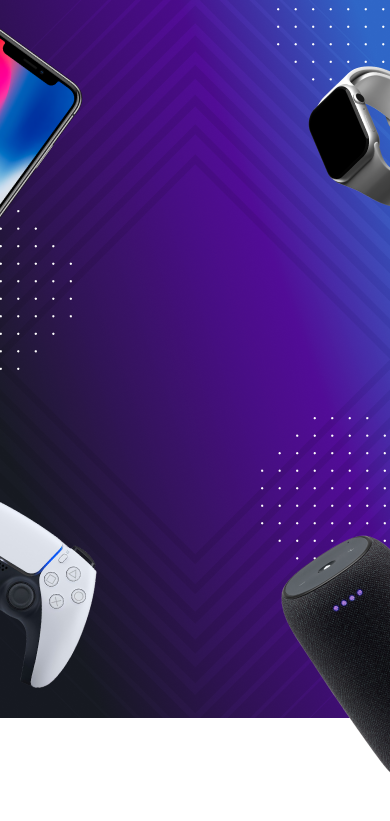
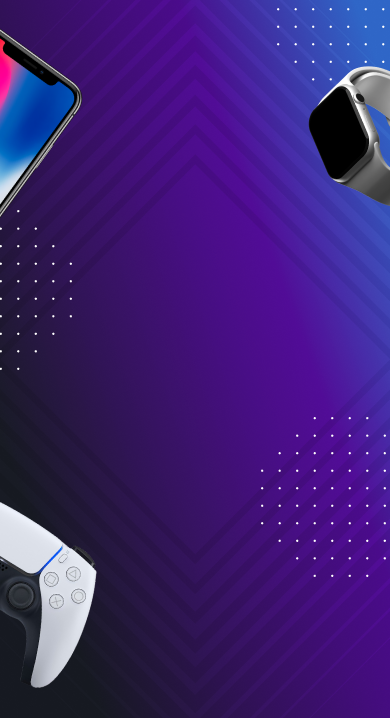
fix

Changed region(s): [[0.0, 0.6044, 1.0, 0.9973], [0.7692, 0.0604, 1.0, 0.3022], [0.0, 0.0302, 0.2154, 0.3022]]

diff --git a/landing-2/scss/style.scss b/landing-2/scss/style.scss
@@ -68,7 +68,7 @@ a {
   }
 
   &.is-disabled {
-    background-color: rgba($grey, .9);
+    background-color: rgba($grey, 0.9);
     color: #fff;
   }
 }
@@ -384,21 +384,21 @@ a {
 }
 
 .timer {
-  background: #FFFFFF;
+  background: #ffffff;
   border-radius: 4px;
   display: inline-flex;
   margin: 0 auto;
 }
-
 .flipdown {
   margin: 0 auto;
   display: flex;
   align-items: center;
   justify-content: center;
   width: 293px;
-  
+
   .rotor-group {
     position: relative;
+    padding-right: 20px;
 
     &:first-child {
       display: none;
@@ -425,6 +425,7 @@ a {
       }
     }
   }
+
   .rotor-group:nth-child(n + 2):nth-child(-n + 3):after,
   .rotor-group:nth-child(n + 2):nth-child(-n + 3):before {
     width: 3px;
@@ -435,24 +436,44 @@ a {
     left: 85px;
   }
 
-  .rotor-group:nth-child(n+2):nth-child(-n+3):before {
+  .rotor-group:nth-child(n + 2):nth-child(-n + 3):before {
     bottom: 27px;
   }
 
-  .rotor-group:nth-child(n+2):nth-child(-n+3):after {
+  .rotor-group:nth-child(n + 2):nth-child(-n + 3):after {
     bottom: 16px;
   }
-  
+
   .rotor-top,
   .rotor-bottom {
-    background: linear-gradient(180deg, #363636 -52.6%, #333333 34.06%, #2B2B2B 83.59%, #212121 115.43%);
+    background: linear-gradient(
+      180deg,
+      #363636 -52.6%,
+      #333333 34.06%,
+      #2b2b2b 83.59%,
+      #212121 115.43%
+    );
   }
 }
-
-.flipdown .rotor, .flipdown .rotor-leaf, .flipdown .rotor-leaf-front, .flipdown .rotor-leaf-rear, .flipdown .rotor-top, .flipdown .rotor-bottom, .flipdown .rotor:after {
+.flipdown .rotor,
+.flipdown .rotor-leaf,
+.flipdown .rotor-leaf-front,
+.flipdown .rotor-leaf-rear,
+.flipdown .rotor-top,
+.flipdown .rotor-bottom,
+.flipdown .rotor:after {
   width: 37px;
 }
-.flipdown.flipdown__theme-dark .rotor, .flipdown.flipdown__theme-dark .rotor-top, .flipdown.flipdown__theme-dark .rotor-leaf-front,
-.flipdown.flipdown__theme-dark .rotor-bottom, .flipdown.flipdown__theme-dark .rotor-leaf-rear {
-  background: linear-gradient(180deg, #363636 -52.6%, #333333 34.06%, #2B2B2B 83.59%, #212121 115.43%);
+.flipdown.flipdown__theme-dark .rotor,
+.flipdown.flipdown__theme-dark .rotor-top,
+.flipdown.flipdown__theme-dark .rotor-leaf-front,
+.flipdown.flipdown__theme-dark .rotor-bottom,
+.flipdown.flipdown__theme-dark .rotor-leaf-rear {
+  background: linear-gradient(
+    180deg,
+    #363636 -52.6%,
+    #333333 34.06%,
+    #2b2b2b 83.59%,
+    #212121 115.43%
+  );
 }

diff --git a/landing-2/css/style.css b/landing-2/css/style.css
@@ -386,7 +386,7 @@ a {
 }
 
 .timer {
-  background: #FFFFFF;
+  background: #ffffff;
   border-radius: 4px;
   display: -webkit-inline-box;
   display: -ms-inline-flexbox;
@@ -409,6 +409,7 @@ a {
 }
 .flipdown .rotor-group {
   position: relative;
+  padding-right: 20px;
 }
 .flipdown .rotor-group:first-child {
   display: none;
@@ -450,16 +451,25 @@ a {
 }
 .flipdown .rotor-top,
 .flipdown .rotor-bottom {
-  background: -webkit-gradient(linear, left top, left bottom, color-stop(-52.6%, #363636), color-stop(34.06%, #333333), color-stop(83.59%, #2B2B2B), color-stop(115.43%, #212121));
-  background: linear-gradient(180deg, #363636 -52.6%, #333333 34.06%, #2B2B2B 83.59%, #212121 115.43%);
+  background: -webkit-gradient(linear, left top, left bottom, color-stop(-52.6%, #363636), color-stop(34.06%, #333333), color-stop(83.59%, #2b2b2b), color-stop(115.43%, #212121));
+  background: linear-gradient(180deg, #363636 -52.6%, #333333 34.06%, #2b2b2b 83.59%, #212121 115.43%);
 }
 
-.flipdown .rotor, .flipdown .rotor-leaf, .flipdown .rotor-leaf-front, .flipdown .rotor-leaf-rear, .flipdown .rotor-top, .flipdown .rotor-bottom, .flipdown .rotor:after {
+.flipdown .rotor,
+.flipdown .rotor-leaf,
+.flipdown .rotor-leaf-front,
+.flipdown .rotor-leaf-rear,
+.flipdown .rotor-top,
+.flipdown .rotor-bottom,
+.flipdown .rotor:after {
   width: 37px;
 }
 
-.flipdown.flipdown__theme-dark .rotor, .flipdown.flipdown__theme-dark .rotor-top, .flipdown.flipdown__theme-dark .rotor-leaf-front,
-.flipdown.flipdown__theme-dark .rotor-bottom, .flipdown.flipdown__theme-dark .rotor-leaf-rear {
-  background: -webkit-gradient(linear, left top, left bottom, color-stop(-52.6%, #363636), color-stop(34.06%, #333333), color-stop(83.59%, #2B2B2B), color-stop(115.43%, #212121));
-  background: linear-gradient(180deg, #363636 -52.6%, #333333 34.06%, #2B2B2B 83.59%, #212121 115.43%);
+.flipdown.flipdown__theme-dark .rotor,
+.flipdown.flipdown__theme-dark .rotor-top,
+.flipdown.flipdown__theme-dark .rotor-leaf-front,
+.flipdown.flipdown__theme-dark .rotor-bottom,
+.flipdown.flipdown__theme-dark .rotor-leaf-rear {
+  background: -webkit-gradient(linear, left top, left bottom, color-stop(-52.6%, #363636), color-stop(34.06%, #333333), color-stop(83.59%, #2b2b2b), color-stop(115.43%, #212121));
+  background: linear-gradient(180deg, #363636 -52.6%, #333333 34.06%, #2b2b2b 83.59%, #212121 115.43%);
 }

diff --git a/landing-3/scss/style.scss b/landing-3/scss/style.scss
@@ -109,7 +109,7 @@ a {
     transition: $transitionScreens;
     position: relative;
     background: url('../img/bg.png') center / cover no-repeat;
-  color: #fff;
+    color: #fff;
 
     .container {
       display: flex;
@@ -120,7 +120,21 @@ a {
     }
 
     &--1 {
-      background: url('../img/home-bg.png') bottom -105px center no-repeat;
+      background: url('../img/home-bg.png') center / cover no-repeat;
+      padding-bottom: 50px;
+      &::after {
+        position: absolute;
+        content: "";
+        width: 143px;
+        height: 319px;
+        bottom: -125px;
+        right: 0;
+        background: url('../img/bg-elem.png') center no-repeat;
+      }
+      .btn-wrapper {
+        position: relative;
+        z-index: 2;
+      }
     }
 
     &--3 {

diff --git a/landing-3/css/style.css b/landing-3/css/style.css
@@ -134,7 +134,21 @@ a {
   padding-bottom: 40px;
 }
 .app__screen--1 {
-  background: url("../img/home-bg.png") bottom -105px center no-repeat;
+  background: url("../img/home-bg.png") center/cover no-repeat;
+  padding-bottom: 50px;
+}
+.app__screen--1::after {
+  position: absolute;
+  content: "";
+  width: 143px;
+  height: 319px;
+  bottom: -125px;
+  right: 0;
+  background: url("../img/bg-elem.png") center no-repeat;
+}
+.app__screen--1 .btn-wrapper {
+  position: relative;
+  z-index: 2;
 }
 .app__screen--3 {
   background: url("../img/call-bg.png") center/cover no-repeat;
